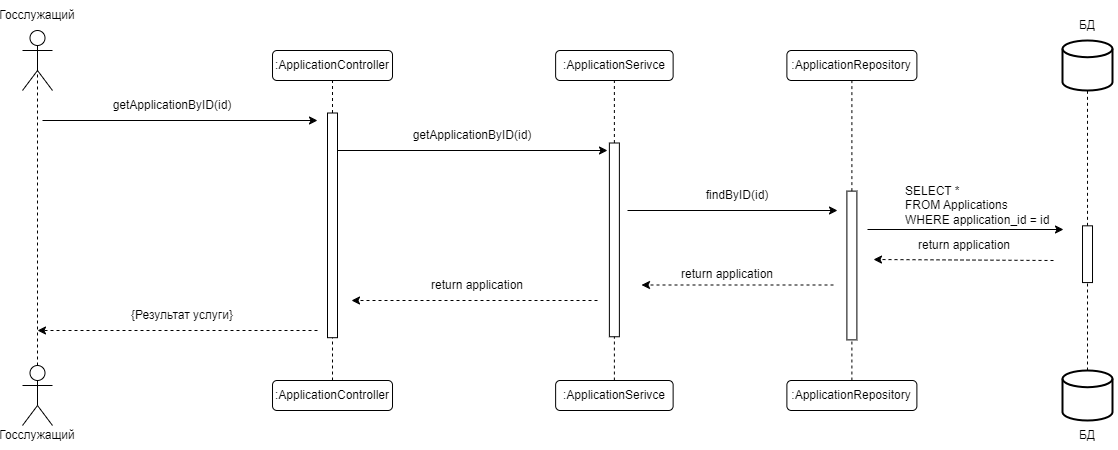
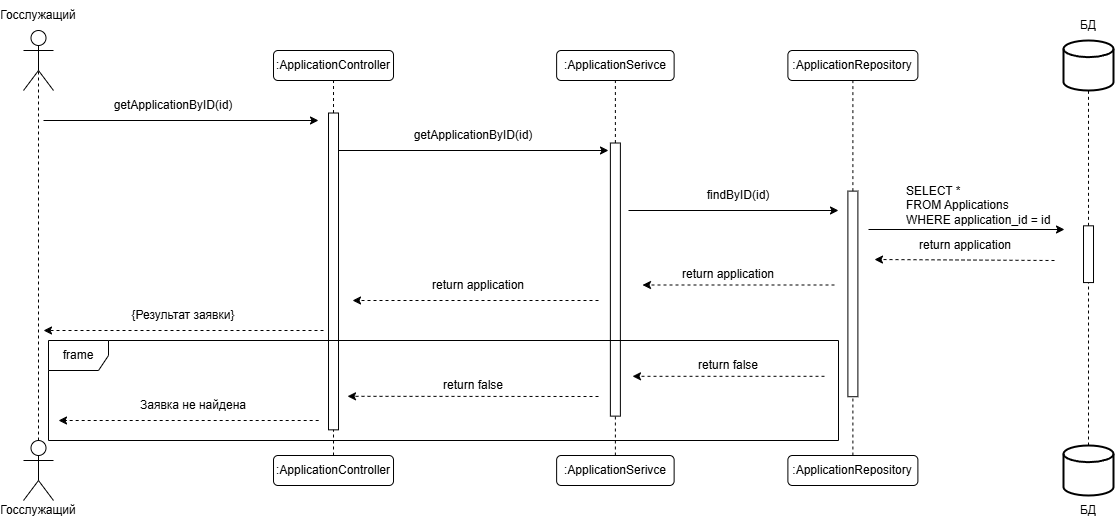
fix lab 4 - 2

diff --git a/Lab4/Lab4.md b/Lab4/Lab4.md
@@ -8,7 +8,7 @@
 
 ## 2. Добавление правил
 
-![Добавление правил](https://github.com/vl4ks/temp-storage/blob/main/Lab4/добавлениеПравил.png)
+![Добавление правил]()
 ### Описание
 Система ищет услугу к которой администратор хочет добавить правило, если такой не существует, то сообщает об ошибке, если есть, то добавляет к ней правило.
 
@@ -16,7 +16,7 @@
 
 ## 3. Добавление результата
 
-![Добавление результата](https://github.com/vl4ks/temp-storage/blob/main/Lab4/добавлениеРезультата.png)
+![Добавление результата]()
 ### Описание
 Система делает запрос и обновляет данные по заявлению, после чего сообщает об успешном добавлении.
 
@@ -56,7 +56,7 @@
 
 ## 8. Просмотр результата
 
-![Просмотр результата](https://github.com/vl4ks/temp-storage/blob/main/Lab4/просмотрРезультата.png)
+![Просмотр результата]()
 ### Описание
 Система делает запрос в бд для нахождения конкретного заявления, после чего возвращает результат услуги и сообщает его пользователю.
 
@@ -64,7 +64,7 @@
 
 ## 9. Просмотр услуг
 
-![Просмотр услуг](https://github.com/vl4ks/temp-storage/blob/main/Lab4/просмотрУслуг.png)
+![Просмотр услуг]()
 ### Описание
 Система делает запрос в бд для нахождения всех заявлений для конкретного пользователя, после чего возвращает их пользователю.
 
@@ -88,7 +88,7 @@
 
 ## 12. Создание карты
 
-![Создание карты](https://github.com/vl4ks/temp-storage/blob/main/Lab4/созданиеКарты.png)
+![Создание карты]()
 ### Описание
 Система создает услуги и добавляет ее в бд.
 
